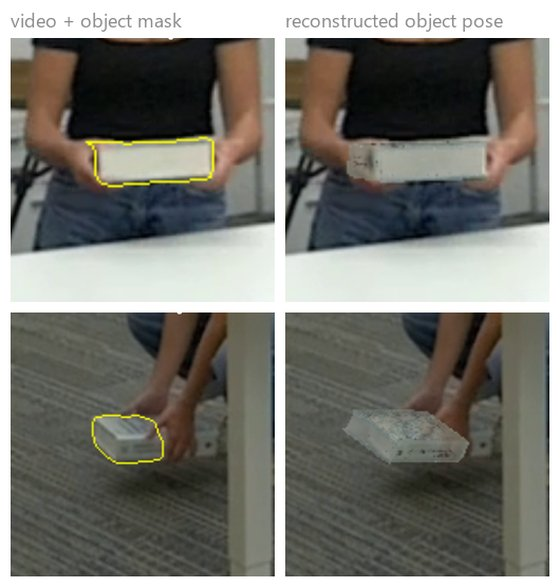
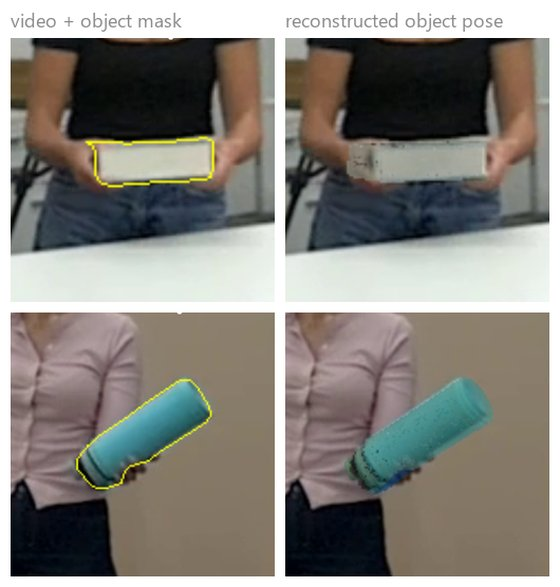
Use clearer, higher-IoU frames in the V2D cover and card
Pick frames by the delivered reconstruction's mask IoU instead of by eye:
ep11 f116 (0.98) and ep25 f251 (0.89), a side view of the bottle.

Claude-Session: https://claude.ai/code/session_01Xkch4mJ7qtnqVWJG4AWmFj

diff --git a/v2d.html b/v2d.html
@@ -15,7 +15,7 @@
 <meta property="og:image" content="https://althea-yuquan-chen.github.io/assets/og/v2d.png">
 <meta property="og:image:width" content="1200">
 <meta property="og:image:height" content="627">
-<meta property="og:image:alt" content="Video frames of a person carrying a light-blue book, next to the reconstructed 3D pose of the book. Frames from the NVIDIA Video-to-Data Challenge dataset, CC BY 4.0.">
+<meta property="og:image:alt" content="Video frames of a person holding a light-blue book and a cyan water bottle held at an angle, next to the reconstructed 3D object poses. Frames from the NVIDIA Video-to-Data Challenge dataset, CC BY 4.0.">
 <meta name="twitter:card" content="summary_large_image">
 <style>
   :root{

diff --git a/index.html b/index.html
@@ -520,7 +520,7 @@
 
       <div class="proj-card">
         <figure class="proj-media">
-          <img src="assets/cards/v2d.jpg" width="560" height="587" loading="lazy" alt="Two video frames of a person carrying and setting down a light-blue book, each shown next to the reconstructed 3D pose of the book overlaid on the frame.">
+          <img src="assets/cards/v2d.jpg" width="560" height="587" loading="lazy" alt="Two video frames, a person holding a light-blue book and a cyan water bottle held at an angle, each shown next to the reconstructed 3D object pose overlaid on the frame.">
         </figure>
         <div class="proj-body">
           <h3>NVIDIA Video-to-Data Challenge</h3>
